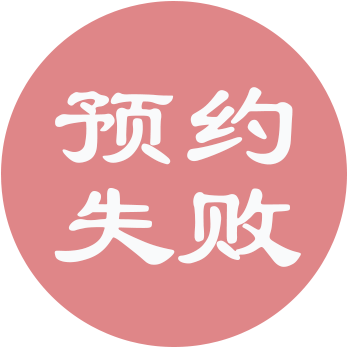
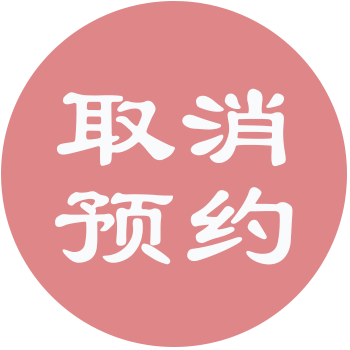
feat: 用户修改信息完成

diff --git a/pages/myInfo/myInfo.js b/pages/myInfo/myInfo.js
@@ -1,6 +1,9 @@
 const {
-  uploadAvatar
+  uploadAvatar,
+  updateUser,
 } = require('../../api/index')
+const { resetUserInfo } = require('../../utils/tools')
+
 var app = getApp();
 Page({
 
@@ -8,14 +11,29 @@ Page({
    * 页面的初始数据
    */
   data: {
-    userInfo: {}
+    userInfo: {},
+    avatarUrlInfo: '',
+    showAvatarUrlInfo: ''
+  },
+
+
+  /**
+   * 生命周期函数--监听页面显示
+   */
+  onShow: function () {
+    this.setData({
+      ...this.data,
+      userInfo: app.globalData.userInfo,
+      avatarUrlInfo: app.globalData.userInfo.avatarUrl,
+      showAvatarUrlInfo: app.globalData.userInfo.avatarUrl
+    })
   },
 
   /**
    * 修改个人信息
    * @param {*} options 
    */
-  updateUserInfo: (e) => {
+  async updateUserInfo(e) {
     const {
       name,
       phone_number,
@@ -23,6 +41,8 @@ Page({
       sex,
       age,
     } = e.detail.value;
+    const { avatarUrlInfo, userInfo } = this.data;
+    const { id } = userInfo;
 
     if (!name || !phone_number || !pwd || !sex || !age) {
       wx.showToast({
@@ -50,6 +70,21 @@ Page({
       })
       return;
     }
+    const res = await updateUser({
+      id, name,
+      phone_number,
+      pwd,
+      sex,
+      age,
+      avatarUrl: avatarUrlInfo,
+    })
+    if (!res.success) {
+      wx.showToast({
+        title: '修改失败'
+      })
+      return;
+    }
+    resetUserInfo();
     wx.showToast({
       title: '修改成功',
       success: () => {
@@ -65,65 +100,15 @@ Page({
   /**
    * 上传头像
    */
-  uploadAvatar: async () => {
+   async uploadAvatar(){
     const res = await uploadAvatar();
-  },
-  /**
-   * 生命周期函数--监听页面加载
-   */
-  onLoad: function (options) {
-
-  },
-
-  /**
-   * 生命周期函数--监听页面初次渲染完成
-   */
-  onReady: function () {
-
-  },
-
-  /**
-   * 生命周期函数--监听页面显示
-   */
-  onShow: function () {
+    const { absolutePath, name } = res.data;
     this.setData({
       ...this.data,
-      userInfo: app.globalData.userInfo
+      avatarUrlInfo: name,
+      showAvatarUrlInfo: absolutePath
     })
   },
 
-  /**
-   * 生命周期函数--监听页面隐藏
-   */
-  onHide: function () {
 
-  },
-
-  /**
-   * 生命周期函数--监听页面卸载
-   */
-  onUnload: function () {
-
-  },
-
-  /**
-   * 页面相关事件处理函数--监听用户下拉动作
-   */
-  onPullDownRefresh: function () {
-
-  },
-
-  /**
-   * 页面上拉触底事件的处理函数
-   */
-  onReachBottom: function () {
-
-  },
-
-  /**
-   * 用户点击右上角分享
-   */
-  onShareAppMessage: function () {
-
-  }
 })

diff --git a/pages/rege_login/rege_login.js b/pages/rege_login/rege_login.js
@@ -142,36 +142,35 @@ Page({
       return;
     }
 
-    if (userType === 'user') {
-      const res = await login({
-        phone,
-        pwd
-      })
-      if (!res.success) {
-        wx.showToast({
-          title: res.message,
-        })
-        return;
-      }
-      const {
-        token,
-        userInfo
-      } = res.data;
-      wx.setStorageSync('userInfo', userInfo);
-      wx.setStorageSync('token', token);
-      app.globalData.userInfo = userInfo
-      app.globalData.token = token
+    const res = await login({
+      phone,
+      pwd,
+      type:userType
+    })
+    if (!res.success) {
       wx.showToast({
-        title: '登录成功',
-        success: () => {
-          setTimeout(() => {
-            wx.switchTab({
-              url: '../index/index'
-            })
-          }, 1000)
-        }
+        title: res.message,
       })
+      return;
     }
+    const {
+      token,
+      userInfo
+    } = res.data;
+    wx.setStorageSync('userInfo', userInfo);
+    wx.setStorageSync('token', token);
+    app.globalData.userInfo = userInfo
+    app.globalData.token = token
+    wx.showToast({
+      title: '登录成功',
+      success: () => {
+        setTimeout(() => {
+          wx.switchTab({
+            url: '../index/index'
+          })
+        }, 1000)
+      }
+    })
 
   },
   onReady: function () {

diff --git a/api/index.js b/api/index.js
@@ -12,6 +12,15 @@ const register = (data) => {
   })
 }
 
+// 修改用户信息
+const updateUser = (data) => {
+  return request({
+    url: '/user',
+    method: 'put',
+    data,
+  })
+}
+
 // 上传
 const login = (data) => {
   return request({
@@ -95,6 +104,14 @@ const queryUserAppointment = (data)=>{
   })
 }
 
+// 修改医生
+export const updateDoctor = (data) => {
+  return request('/doctor', {
+      method: 'put',
+      data
+  });
+};
+
 module.exports = {
   register,
   login,
@@ -107,4 +124,6 @@ module.exports = {
   addReserve,
   getUserInfo,
   queryUserAppointment,
+  updateDoctor,
+  updateUser,
 }

diff --git a/utils/request.js b/utils/request.js
@@ -3,7 +3,7 @@ let test0 = 'http://192.168.31.134:8081/hospital';
 let test1 = 'http://hospital.liqiu.vip/hospital'
 let test2 = 'http://dockerhospital.liqiu.vip/hospital';
 
-let host = test1;
+let host = test0;
 
 const request = ({
   url,

diff --git a/pages/my/my.js b/pages/my/my.js
@@ -17,6 +17,7 @@ Page({
     const {
       userInfo
     } = app.globalData;
+    console.log(userInfo)
     this.setData({
       ...this.data,
       userInfo

diff --git a/pages/myHistory/myHistory.js b/pages/myHistory/myHistory.js
@@ -18,7 +18,7 @@ Page({
       },
       {
         status: 0,
-        text: '预约失败'
+        text: '取消预约'
       },
       {
         status: 1,

diff --git a/utils/tools.js b/utils/tools.js
@@ -1,7 +1,7 @@
 const {
     getUserInfo,
 } = require('../api/index');
-
+var app = getApp();
 /**
  * 重置用户自己的数据
  * @returns 
